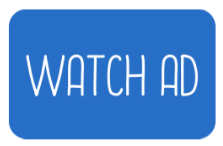
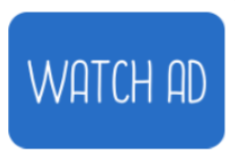
Switched to LDPlayer9 and 1080x1920 resolution

Changed region(s): [[0.1076, 0.3562, 0.6726, 0.6849], [0.0269, 0.0548, 0.9686, 0.9863], [0.6996, 0.3562, 0.8879, 0.6849]]

diff --git a/main.go b/main.go
@@ -47,7 +47,7 @@ func main() {
 
 	templates := make(map[string]*template)
 
-	err := e.Open()
+	err := e.Open(LDPlayer9)
 	if err != nil {
 		panic(err)
 	}
@@ -373,6 +373,9 @@ func main() {
 				}
 
 				dronedetectmat.Close()
+			} else {
+				// So it doesnt time out when we get back
+				lastoktime = time.Now()
 			}
 			time.Sleep(time.Millisecond * 5)
 		}
@@ -483,7 +486,7 @@ func main() {
 							watch_ad_boosts_button = res.location
 						case "watch_ad":
 							watch_ad_round_offer_round_icon_button = res.location
-						case "ad_offer_boost", "ad_offer_eggs", "ad_offer_box_of_eggs", "ad_offer_crate_of_eggs", "ad_offer_chicken_box", "ad_offer_large_chicken_box":
+						case "ad_offer_boost", "ad_offer_eggs", "ad_offer_box_of_eggs", "ad_offer_crate_of_eggs", "ad_offer_chicken_box", "ad_offer_large_chicken_box", "ad_offer_tickets":
 							ad_offer_accept = true
 						case "ad_offer_money", "ad_offer_a_ton_of_cash":
 							ad_offer_reject = true
@@ -508,7 +511,7 @@ func main() {
 						case "drone_1", "drone_2":
 							// fmt.Println("Drone detected")
 							// e.Click(middle.X, middle.Y, 1)
-						case "launchicon":
+						case "launchicon", "launchicon_hat", "launchicon_hat_2":
 							fmt.Println("Launching app")
 							e.Click(scale_pos(res.location), 1)
 							time.Sleep(time.Millisecond * 4000)
@@ -558,7 +561,7 @@ func main() {
 					deviation := dstStdDev.Mean().Val1 * dstStdDev.Mean().Val1
 					fmt.Printf("Deviation: %v\n", deviation)
 					lastblurtime = time.Now()
-					if deviation < 1000 {
+					if deviation < 1200 {
 						fmt.Println("Blurry screen detected, fixing")
 						e.Click(scale_pos(boost_button), 1)
 					}
@@ -579,7 +582,7 @@ func main() {
 						shoot_drones = true
 					} else if time.Since(ad_started) > time.Second*45 {
 						fmt.Println("Ad timed out/finished")
-						e.SendKey(win.VK_HOME, 1)
+						e.SendKey(uintptr(e.Config.Home), 1)
 
 						watching_ad = false
 						shoot_drones = true
@@ -591,15 +594,15 @@ func main() {
 					fmt.Println("Crash detected, restarting app")
 
 					fmt.Println("Clearning app task list")
-					e.SendKey(win.VK_END, 1)
 					for i := 0; i < 3; i++ {
-						time.Sleep(time.Millisecond * 300)
+						e.SendKey(e.Config.AppSwitcher, 1)
+						time.Sleep(time.Millisecond * 500)
 						e.SendKey(win.VK_DELETE, 1)
-						time.Sleep(time.Millisecond * 300)
-						e.SendKey(win.VK_ESCAPE, 1)
-						time.Sleep(time.Millisecond * 300)
+						time.Sleep(time.Millisecond * 500)
+						e.SendKey(e.Config.Escape, 1)
+						time.Sleep(time.Millisecond * 500)
 					}
-					e.SendKey(win.VK_HOME, 1)
+					e.SendKey(e.Config.Home, 1)
 
 					lastdronetime = time.Now()
 					lastoktime = time.Now()

diff --git a/emulator.go b/emulator.go
@@ -10,30 +10,63 @@ import (
 	"github.com/lxn/win"
 )
 
-var (
-	emulatorname = "Bluestacks"
-	classname1   = "plrNativeInputWindowClass"
-	classname2   = "BlueStacksApp"
-)
+type EmulatorConfig struct {
+	MainWindowName    string
+	InputWindowClass  string
+	ScreenWindowClass string
+
+	Executable string
+
+	Home, AppSwitcher, Back, Escape uintptr
+}
+
+var Bluestacks = EmulatorConfig{
+	MainWindowName:    "Bluestacks",
+	InputWindowClass:  "plrNativeInputWindowClass",
+	ScreenWindowClass: "BlueStacksApp",
+
+	// Executable: "Bluestacks.exe",
+
+	Home:        win.VK_HOME,
+	AppSwitcher: win.VK_END,
+	Back:        win.VK_PRIOR,
+	Escape:      win.VK_ESCAPE,
+}
+
+var LDPlayer9 = EmulatorConfig{
+	MainWindowName:    "LDPlayer",
+	InputWindowClass:  "RenderWindow",
+	ScreenWindowClass: "subWin",
+	Executable:        "C:\\Program Files\\LDPlayer\\LDPlayer.exe",
+
+	Home:        win.VK_F1,
+	AppSwitcher: win.VK_F2,
+	Back:        win.VK_BACK,
+	Escape:      win.VK_ESCAPE,
+}
 
 type emulator struct {
+	Config EmulatorConfig
+
 	mainwnd, inputwnd, screenwnd win.HWND
 }
 
-func (e *emulator) Open() error {
-	handle, err := findWindow(emulatorname)
+func (e *emulator) Open(ec EmulatorConfig) error {
+	e.Config = ec
+
+	handle, err := findWindow(e.Config.MainWindowName)
 	if err != nil {
 		return fmt.Errorf("Could not find emulator: %v", err)
 	}
 	e.mainwnd = win.HWND(handle)
 
-	handle = findWindowEx(handle, 0, syscall.StringToUTF16Ptr(classname1), nil)
+	handle = findWindowEx(handle, 0, syscall.StringToUTF16Ptr(e.Config.InputWindowClass), nil)
 	if handle == 0 {
 		return errors.New("First child window not found")
 	}
 	e.inputwnd = win.HWND(handle)
 
-	handle = findWindowEx(handle, 0, syscall.StringToUTF16Ptr(classname2), nil)
+	handle = findWindowEx(handle, 0, syscall.StringToUTF16Ptr(e.Config.ScreenWindowClass), nil)
 	if handle == 0 {
 		return errors.New("Second child window not found")
 	}

diff --git a/README.md b/README.md
@@ -5,12 +5,12 @@ I wanted to learn how to use GoCV, and had earlier been playing Egg Inc on my An
 Is it cheating? No, it's optimization of your time.
 
 ## Requirements:
-- BlueStacks 5.5 Android emulator for Windows
-- Egg Inc installed on emulator
+- LD Player 9 Android emulator for Windows (code also supports Bluestacks)
+- Egg Inc installed on emulator (download XAPX and install it from Windows - https://apkcombo.com/egg-inc/com.auxbrain.egginc/download/apk)
 - LOTS of CPU. I use 20 cores on my machine.
 
 ## Settings in BlueStacks:
-- 2560x1440 resolution (important!)
+- 1080x1920 resolution (important!)
 - Hotkeys:
   - Home: HOME
   - Back: PGUP
@@ -18,7 +18,7 @@ Is it cheating? No, it's optimization of your time.
   - Recent Apps: END
 
 ## Features:
-- Rotate screen to portrait mode if needed
+- Rotate screen to portrait mode if needed (Bluestacks)
 - Starts Egg Inc from launcher
 - Watch ad for 2X boost when needed
 - Watches ads for golden eggs, boosts, chicken boxes - but not for money (you can change this in the code)
